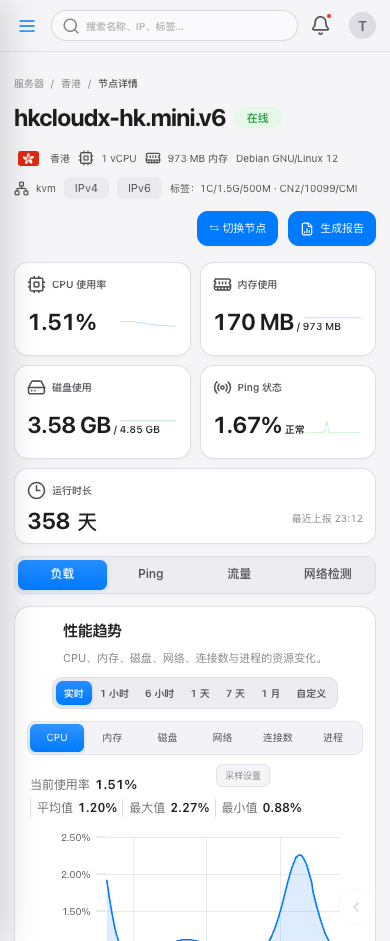
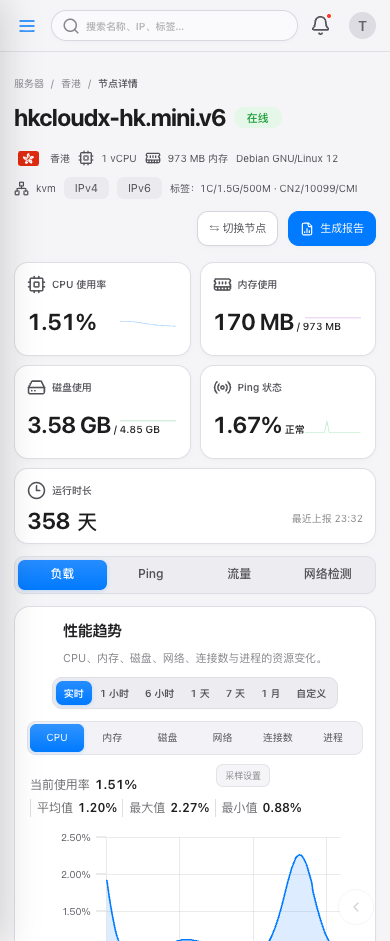
fix: align Cupertino controls and guard browser reload checks

Changed region(s): [[0.4923, 0.2157, 0.7077, 0.2774]]

diff --git a/src/styles/cupertino.css b/src/styles/cupertino.css
@@ -3512,3 +3512,12 @@
 [data-theme-style="cupertino"] .home-command-area .home-workbench-search {
   display: none;
 }
+
+/* The neutral switch action precedes the blue report action in the reference. */
+[data-theme-style="cupertino"]
+  .instance-topbar-actions
+  > button.cupertino-switch-node {
+  background: #fff;
+  color: #515157;
+  border-color: #d5d5df;
+}
